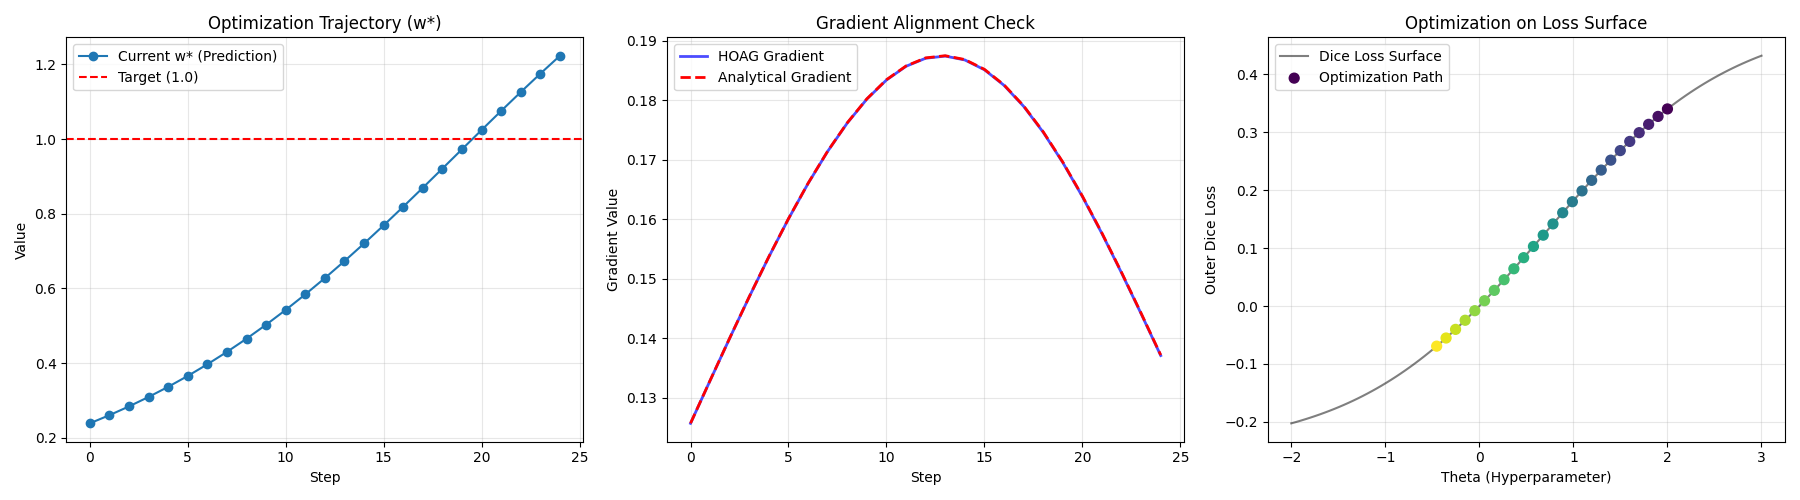
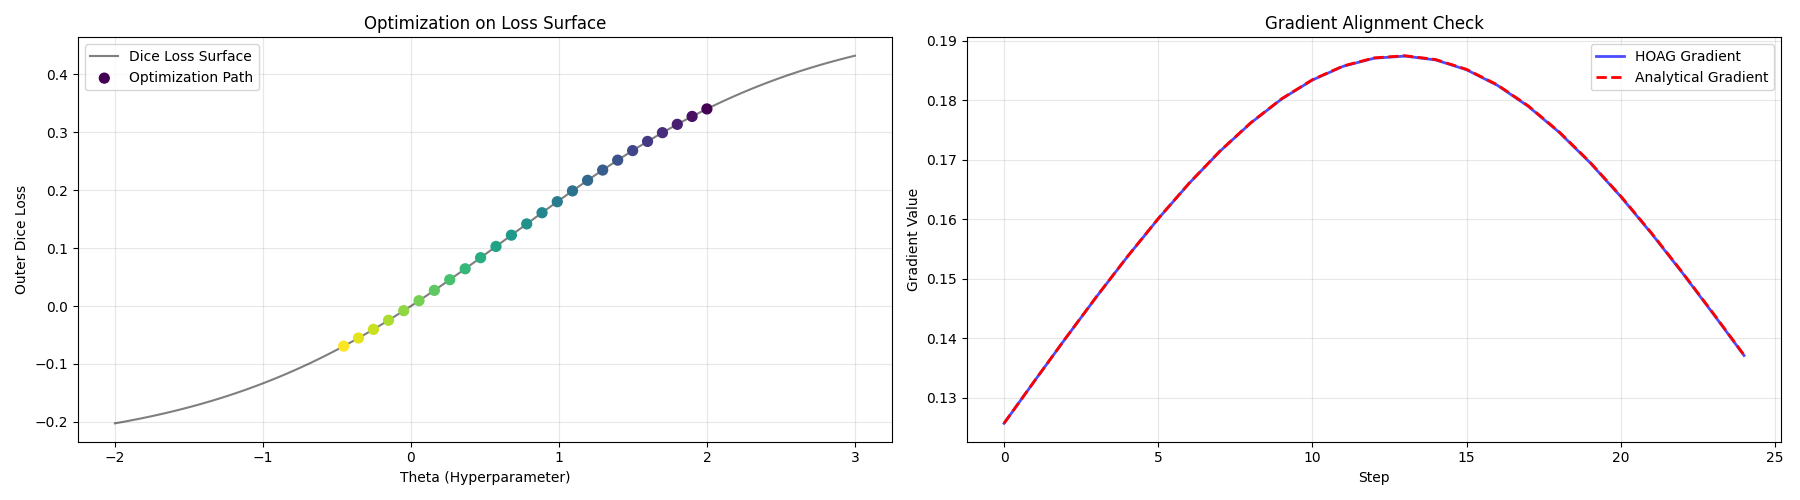
updt

diff --git a/medical_dataset_tv/hoag_exp.py b/medical_dataset_tv/hoag_exp.py
@@ -119,16 +119,16 @@ def run_verification():
     # ==========================================
     # 3. PLOTTING
     # ==========================================
-    fig, ax = plt.subplots(1, 3, figsize=(18, 5))
+    fig, ax = plt.subplots(1, 2, figsize=(18, 5))
     
-    # Plot 1: Trajectory
-    ax[0].plot(history['w_star'], label='Current w* (Prediction)', marker='o')
-    ax[0].axhline(y=1.0, color='r', linestyle='--', label='Target (1.0)')
-    ax[0].set_title("Optimization Trajectory (w*)")
-    ax[0].set_xlabel("Step")
-    ax[0].set_ylabel("Value")
-    ax[0].legend()
-    ax[0].grid(True, alpha=0.3)
+    # # Plot 1: Trajectory
+    # ax[0].plot(history['w_star'], label='Current w* (Prediction)', marker='o')
+    # ax[0].axhline(y=1.0, color='r', linestyle='--', label='Target (1.0)')
+    # ax[0].set_title("Optimization Trajectory (w*)")
+    # ax[0].set_xlabel("Step")
+    # ax[0].set_ylabel("Value")
+    # ax[0].legend()
+    # ax[0].grid(True, alpha=0.3)
     
     # Plot 2: Gradient Comparison
     ax[1].plot(history['hoag_grad'], 'b-', label='HOAG Gradient', linewidth=2, alpha=0.7)
@@ -149,13 +149,13 @@ def run_verification():
         l = scalar_dice_loss(w_s, target)
         l_vals.append(l.item())
         
-    ax[2].plot(t_vals, l_vals, 'k-', alpha=0.5, label='Dice Loss Surface')
-    ax[2].scatter(history['theta'], history['outer_loss'], c=np.arange(len(history['theta'])), cmap='viridis', s=50, zorder=5, label='Optimization Path')
-    ax[2].set_title("Optimization on Loss Surface")
-    ax[2].set_xlabel("Theta (Hyperparameter)")
-    ax[2].set_ylabel("Outer Dice Loss")
-    ax[2].legend()
-    ax[2].grid(True, alpha=0.3)
+    ax[0].plot(t_vals, l_vals, 'k-', alpha=0.5, label='Dice Loss Surface')
+    ax[0].scatter(history['theta'], history['outer_loss'], c=np.arange(len(history['theta'])), cmap='viridis', s=50, zorder=5, label='Optimization Path')
+    ax[0].set_title("Optimization on Loss Surface")
+    ax[0].set_xlabel("Theta (Hyperparameter)")
+    ax[0].set_ylabel("Outer Dice Loss")
+    ax[0].legend()
+    ax[0].grid(True, alpha=0.3)
     
     plt.tight_layout()
     plt.savefig("hoag_verification_plot.png")
